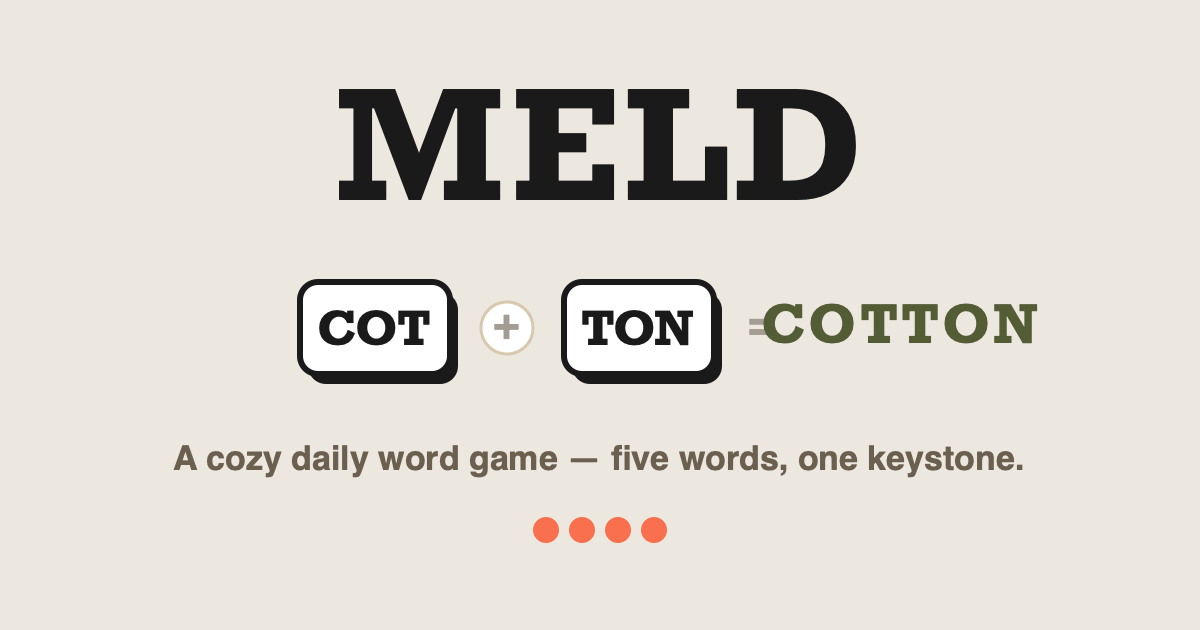
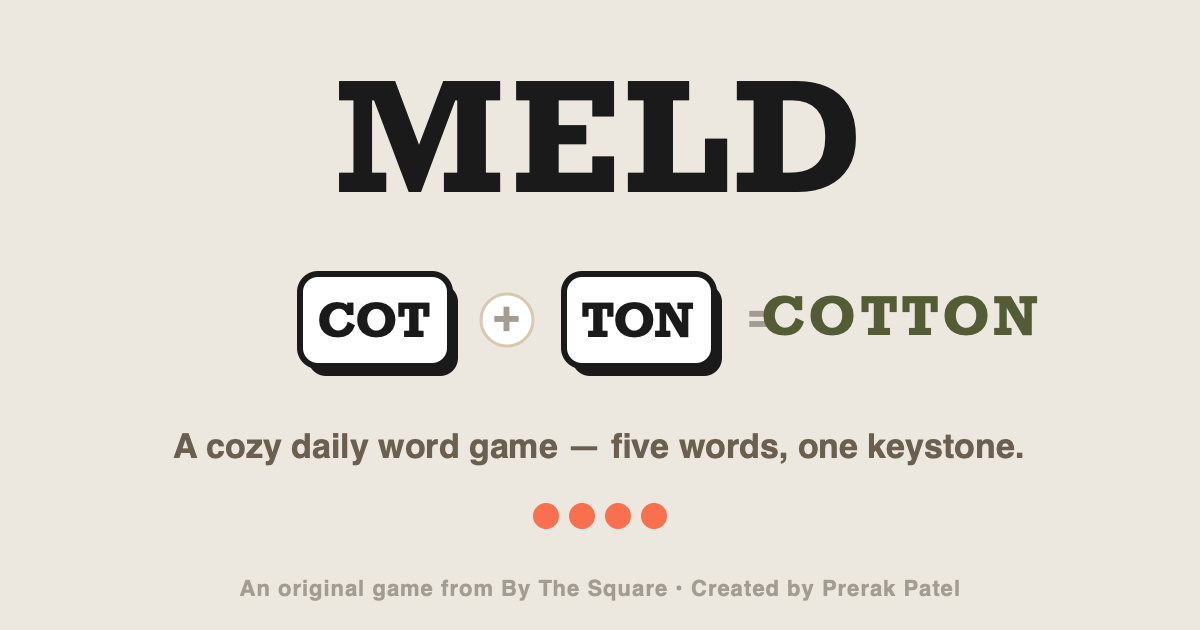
Add By The Square / creator attribution and repoint to meld.bythesquare.app
- Share image gains a muted footer: "An original game from By The
  Square • Created by Prerak Patel"
- How-to-play credit updated to match (studio + creator)
- Copyable result gains a meld.bythesquare.app footer line
- og/twitter meta URLs repointed from the vercel preview URL to the
  canonical custom domain

diff --git a/index.html b/index.html
@@ -10,19 +10,19 @@
     <meta name="description" content="MELD — a cozy daily word game. Meld two chunks into a word; find all five, including the keystone." />
     <title>MELD — a daily word game</title>
 
-    <!-- Link previews (iMessage, WhatsApp, social). Update URLs if a custom domain is added. -->
+    <!-- Link previews (iMessage, WhatsApp, social). URLs use the canonical domain. -->
     <meta property="og:type" content="website" />
     <meta property="og:site_name" content="MELD" />
     <meta property="og:title" content="MELD — a daily word game" />
     <meta property="og:description" content="Meld two chunks into a word. Find all five, including the keystone. A new puzzle every day." />
-    <meta property="og:url" content="https://meld-delta.vercel.app/" />
-    <meta property="og:image" content="https://meld-delta.vercel.app/og.png" />
+    <meta property="og:url" content="https://meld.bythesquare.app/" />
+    <meta property="og:image" content="https://meld.bythesquare.app/og.png" />
     <meta property="og:image:width" content="1200" />
     <meta property="og:image:height" content="630" />
     <meta name="twitter:card" content="summary_large_image" />
     <meta name="twitter:title" content="MELD — a daily word game" />
     <meta name="twitter:description" content="Meld two chunks into a word. Find all five, including the keystone. A new puzzle every day." />
-    <meta name="twitter:image" content="https://meld-delta.vercel.app/og.png" />
+    <meta name="twitter:image" content="https://meld.bythesquare.app/og.png" />
 
     <!-- Add-to-home-screen -->
     <link rel="manifest" href="/manifest.webmanifest" />

diff --git a/src/components/HowToPlay.jsx b/src/components/HowToPlay.jsx
@@ -48,8 +48,10 @@ export default function HowToPlay({ onClose }) {
           Play
         </button>
 
-        <p className="text-[10px] tracking-[0.12em] uppercase text-muted m-0 mt-3 text-center">
-          An original game by Prerak Patel
+        <p className="text-[10px] tracking-[0.12em] uppercase text-muted m-0 mt-3 leading-relaxed text-center">
+          An original game from By The Square
+          <br />
+          Created by Prerak Patel
         </p>
       </div>
     </>

diff --git a/src/components/GameBoard.jsx b/src/components/GameBoard.jsx
@@ -259,7 +259,7 @@ export default function GameBoard({ puzzle, ephemeral, practice, mountToast, onH
       if (found.includes(k)) return validWords[k].key ? '🟨' : '🟩';
       return '⬜';
     }).join('');
-    return `MELD #${puzzle.day}  ${score}pts\n${grid}`;
+    return `MELD #${puzzle.day}  ${score}pts\n${grid}\nmeld.bythesquare.app`;
   }, [puzzle, wordOrder, validWords, found, score]);
 
   const copyResult = () => {

diff --git a/README.md b/README.md
@@ -2,7 +2,8 @@
 
 A cozy daily word game — meld two letter-chunks into a word, find all five of the day's words, including the hidden **keystone**. Same puzzle for everyone, every day.
 
-An original game by **Prerak Patel** · © 2026 Prerak Patel. All rights reserved.
+An original game from **By The Square** · Created by **Prerak Patel** · [meld.bythesquare.app](https://meld.bythesquare.app)
+© 2026 Prerak Patel. All rights reserved.
 
 ## How it works
 